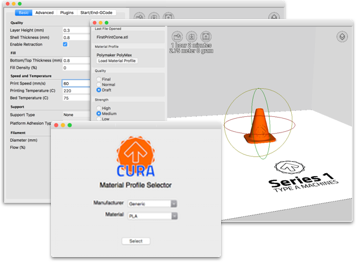
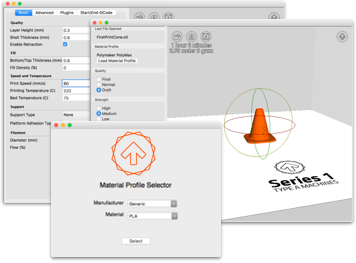
Updated images.

Changed region(s): [[0.309, 0.4867, 0.4326, 0.6692]]

diff --git a/Cura/gui/materialProfileSelector.py b/Cura/gui/materialProfileSelector.py
@@ -94,11 +94,10 @@ class MaterialProfileSelector(wx.Frame):
 		self.selectButton = wx.Button(listBoxPanel, -1, 'Select')
 		
 		# load topBox
-		logoPath = resources.getPathForImage('CuraTAMIcon.png')
-		logoBitmap = wx.Bitmap(logoPath)
-		logoBitmap.SetHeight(125)
-		logoBitmap.SetWidth(125)
-		logo = wx.StaticBitmap(listBoxPanel, -1, logoBitmap)
+		logoPath = resources.getPathForImage('logoOutlineOrange.png')
+		logoBitmap = wx.Image(logoPath)
+		logoBitmap = logoBitmap.Scale(125, 125)
+		logo = wx.StaticBitmap(listBoxPanel, -1, wx.BitmapFromImage(logoBitmap))
 		titleText = wx.StaticText(listBoxPanel, -1, "Material Profile Selector")
 		font = wx.Font(20, family=wx.SWISS, style=wx.NORMAL, weight=wx.NORMAL)
 		titleText.SetFont(font)
